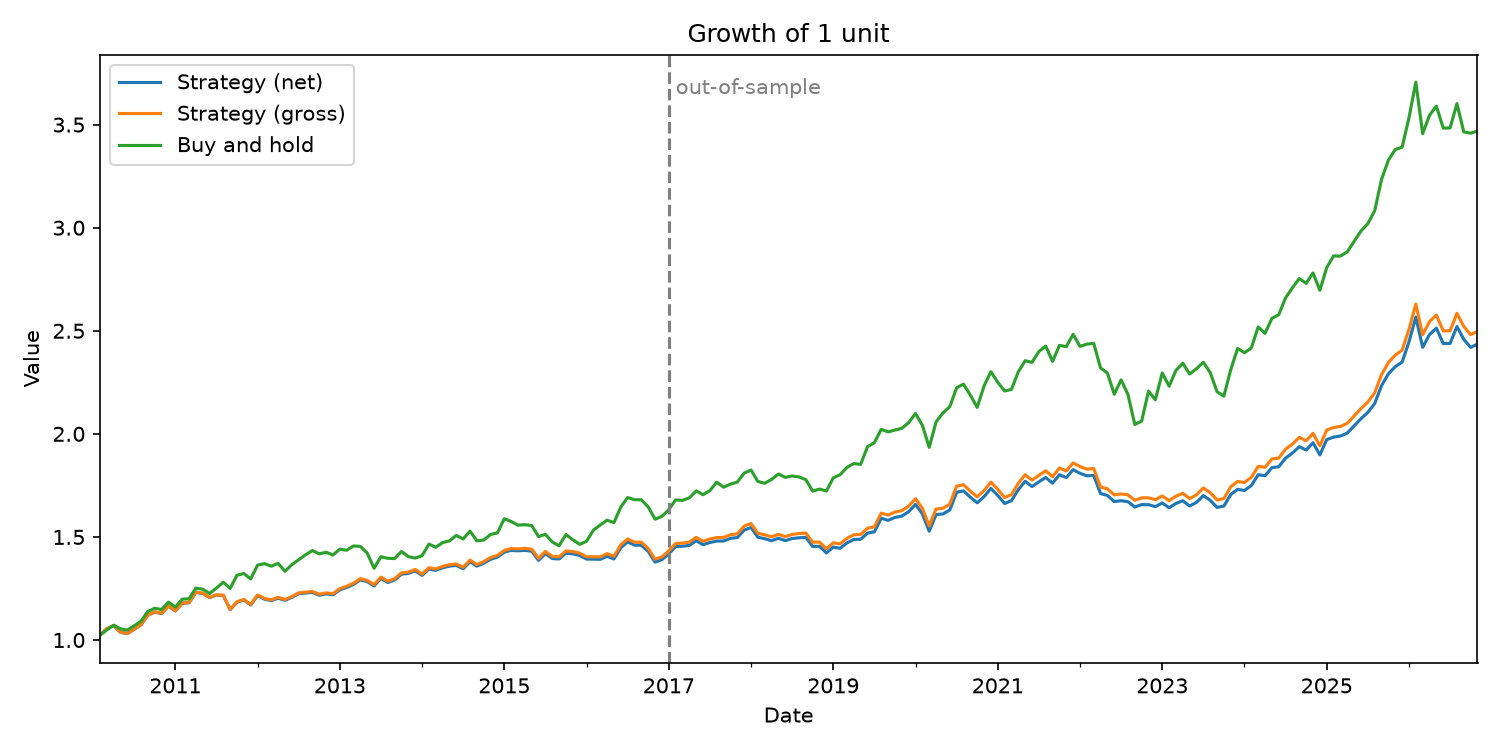
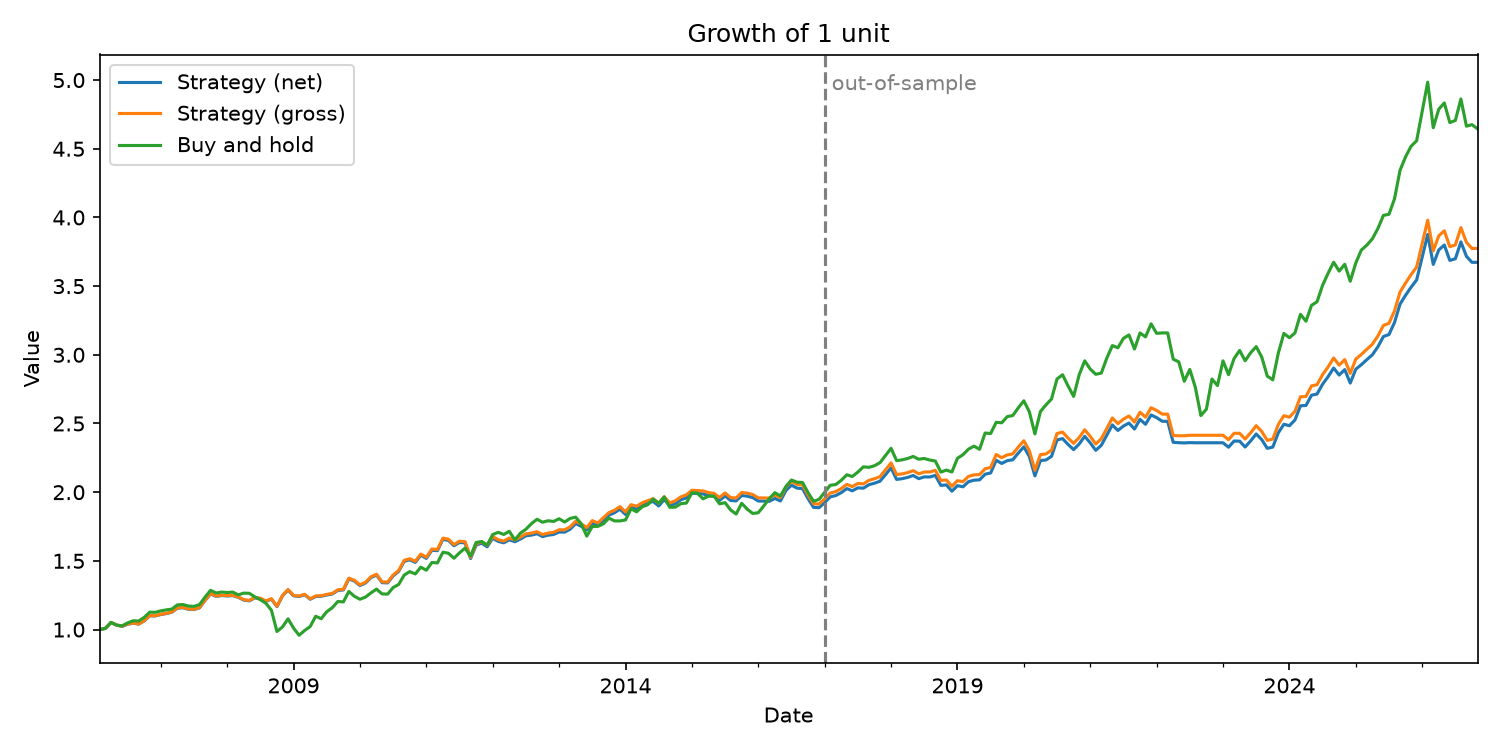
Completed change from ISF.L to EWU and ran backtest.py again. New results now include the full period from 2006

diff --git a/backtest.py b/backtest.py
@@ -18,7 +18,7 @@ import matplotlib.pyplot as plt
 # ----------------------------------------------------------------------------
 # Settings (decide these up front; do not tune them on the out-of-sample period)
 # ----------------------------------------------------------------------------
-TICKERS = ["SPY", "ISF.L", "TLT", "GLD"]  # US equities, UK equities, bonds, gold
+TICKERS = ["SPY", "EWU", "TLT", "GLD"]  # US equities, UK equities (USD), bonds, gold
 START = "2005-01-01"
 SPLIT_DATE = "2017-01-01"  # before = in-sample, after = out-of-sample
 LOOKBACK = 12              # months

diff --git a/Log.md b/Log.md
@@ -5,3 +5,8 @@
 - Problems: TLT download failed ("database is locked") and ISF.L had too little history.
 - Decisions: replaced ISF.L with EWU for data availability. This was decided before seeing any results. Set the split date at 2017-01-01 and the lookback at 12 months in advance.
 - Next: write the README hypothesis, read the results tables, plan the out-of-sample test.
+## 2026-11-15
+- Problem: first results ran on ISF.L, not EWU, because the ticker edit wasn't applied. Results started in 2010 and missed 2008.
+- First run (ISF.L, superseded): strategy Sharpe 0.82 vs buy-and-hold 0.90 over 2010-2026.
+- Fix: swapped ISF.L for EWU (data availability, not performance) and re-ran.
+- Rule: no further changes to settings based on results.
